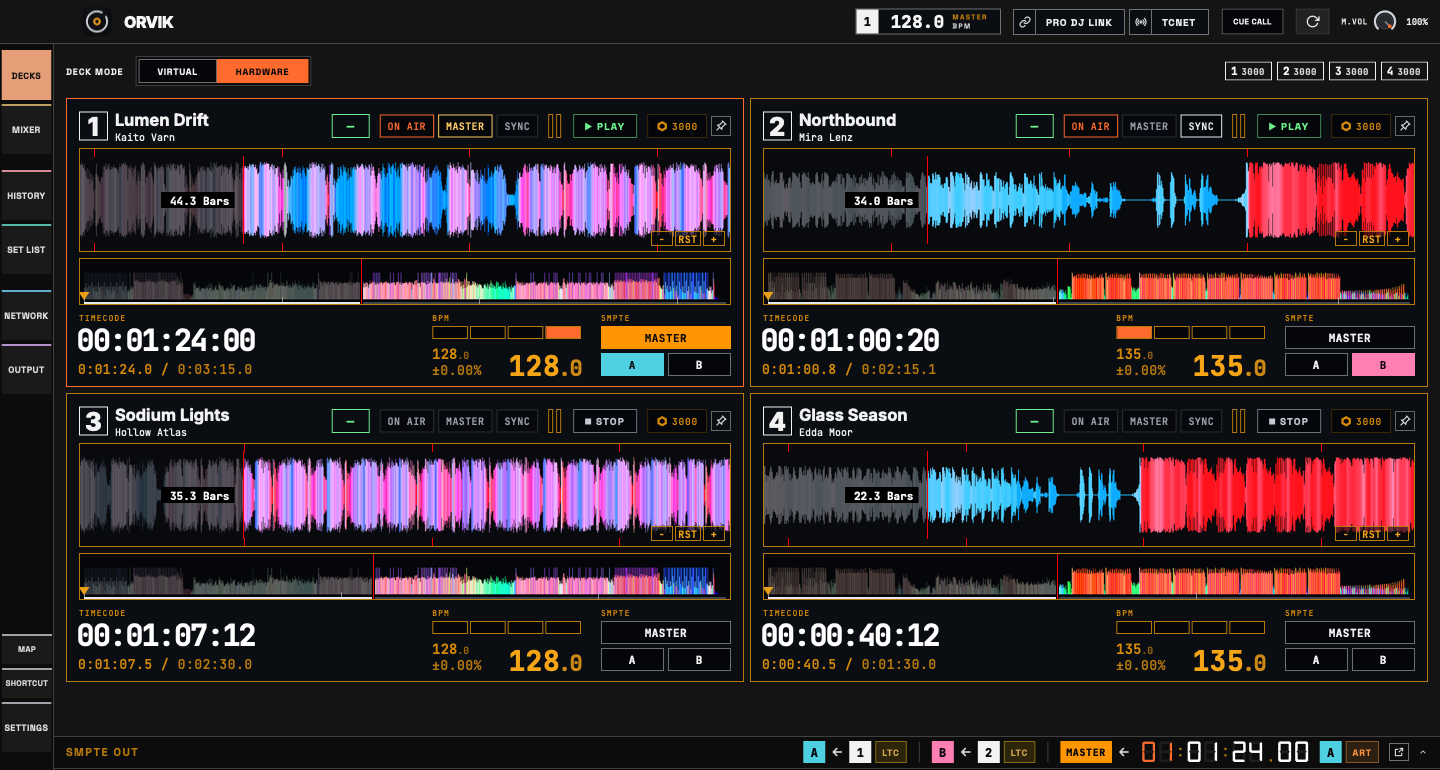
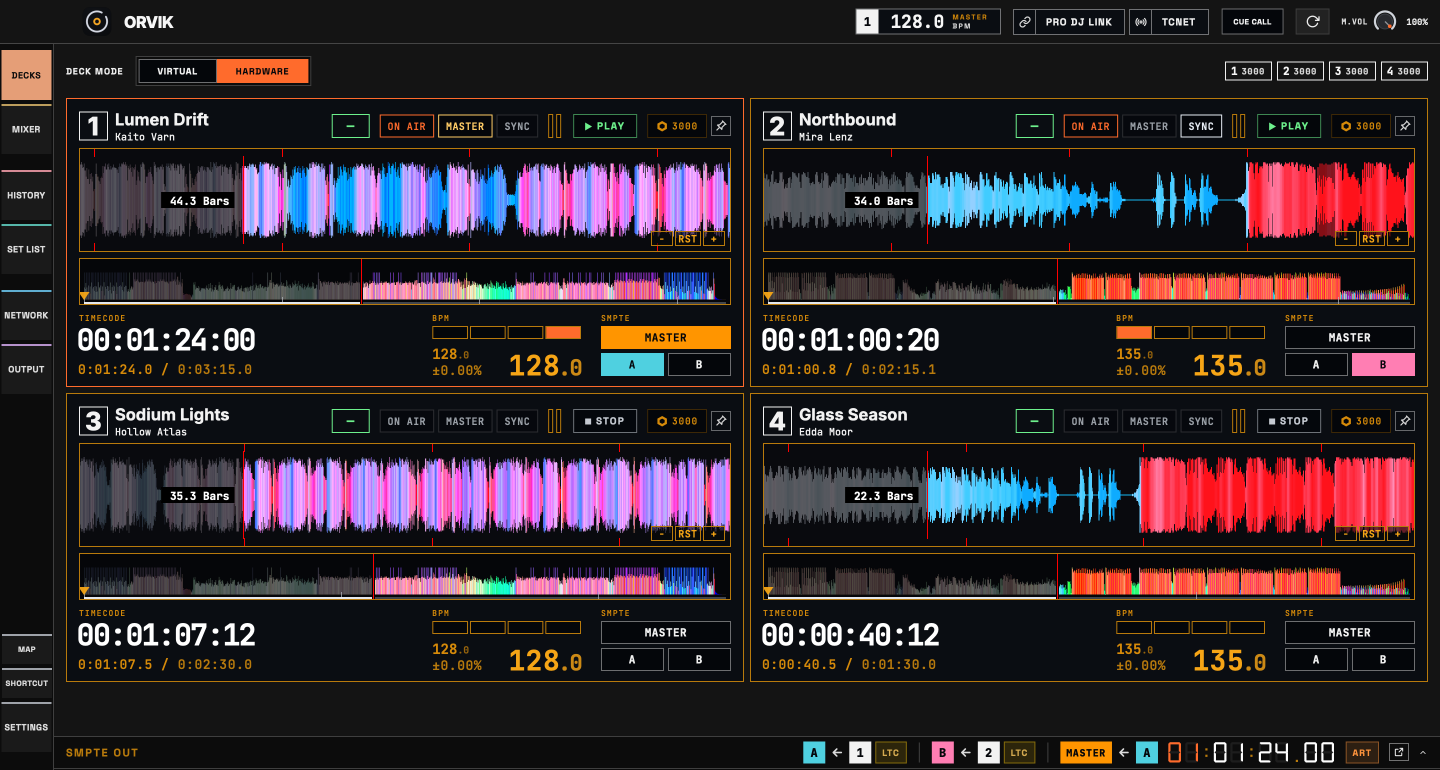
docs: screenshots with the SMPTE OUT bar reading MASTER <- source layer
The app's collapsed SMPTE OUT bar now shows the master's source layer right after
the arrow, as the layers do (A <- 1), and the timecode after it. The DECKS,
OUTPUT, SET LIST and MIXER screenshots (website and README) are retaken from the
same fixture, and the website's running timecode over the DECKS bar moves with it.

Claude-Session: https://claude.ai/code/session_017nq7ZHQCkbKwtrxRsWGQmm

diff --git a/docs/site/live.js b/docs/site/live.js
@@ -47,8 +47,8 @@
   /* SMPTE OUT's MASTER readout in the DECKS page's bottom bar */
   function barParts(layer) {
     layer.appendChild(el('div', 'lv-barfix'));
-    var segs = [2285, 2372, 2461, 2550].map(function (x, i) { var s = el('div', 'lv-bseg', 'left:' + x + 'px', '<span class="g">88</span>'); var l = el('span', 'l' + (i ? '' : ' h')); s.appendChild(l); layer.appendChild(s); return l; });
-    [[2358, 1495], [2358, 1509], [2446, 1495], [2446, 1509], [2535, 1517]].forEach(function (q) { layer.appendChild(el('div', 'lv-bsep', 'left:' + q[0] + 'px;top:' + q[1] + 'px')); });
+    var segs = [2337, 2424, 2513, 2602].map(function (x, i) { var s = el('div', 'lv-bseg', 'left:' + x + 'px', '<span class="g">88</span>'); var l = el('span', 'l' + (i ? '' : ' h')); s.appendChild(l); layer.appendChild(s); return l; });
+    [[2410, 1495], [2410, 1509], [2498, 1495], [2498, 1509], [2587, 1517]].forEach(function (q) { layer.appendChild(el('div', 'lv-bsep', 'left:' + q[0] + 'px;top:' + q[1] + 'px')); });
     return function (t) { var m = tc(84000 + t, 1).split(':'); for (var i = 0; i < 4; i++) segs[i].textContent = m[i]; };
   }
   /* the SMPTE OUT drawer, rebuilt on the app's 2x grid over the captured one */

diff --git a/docs/site/site.css b/docs/site/site.css
@@ -152,7 +152,7 @@ a:hover { color: var(--color-ink); text-decoration-color: var(--color-accent); }
 .lv-sub { color: var(--app-clock); font: 700 32.4px/1.32 var(--font-display); letter-spacing: -3px; white-space: nowrap; }
 /* the plate rule sizes every <img> in a plate to the frame; the overlaid deck cards keep their own 2x size */
 .plate .lv-layer .lv-card { width: 1356px; height: 579px; aspect-ratio: auto; outline: none; background: none; border-radius: 0; }
-.lv-barfix { left: 2278px; top: 1474px; width: 349px; height: 61px; background: var(--app-bar); }
+.lv-barfix { left: 2330px; top: 1474px; width: 349px; height: 61px; background: var(--app-bar); }
 .lv-bseg { top: 1483px; font: 40px/1 var(--font-seg); white-space: nowrap; }
 .lv-bseg .g, .lv-seg .g { color: var(--app-ghost); }
 .lv-bseg .l, .lv-seg .l { position: absolute; left: 0; top: 0; color: var(--app-seg); }
